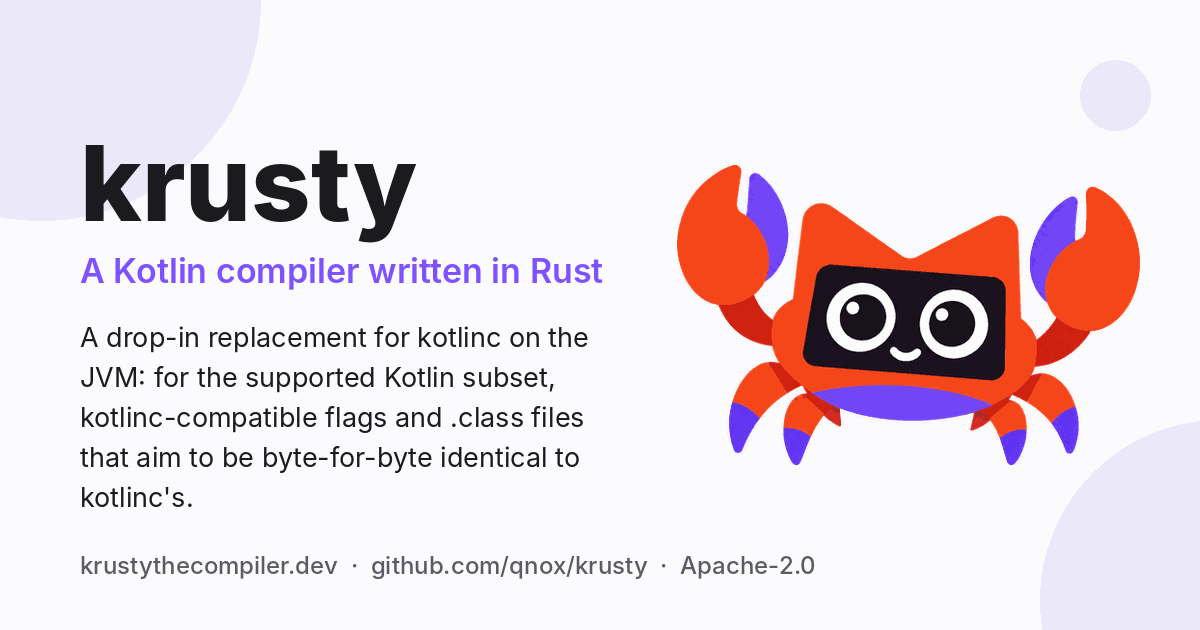
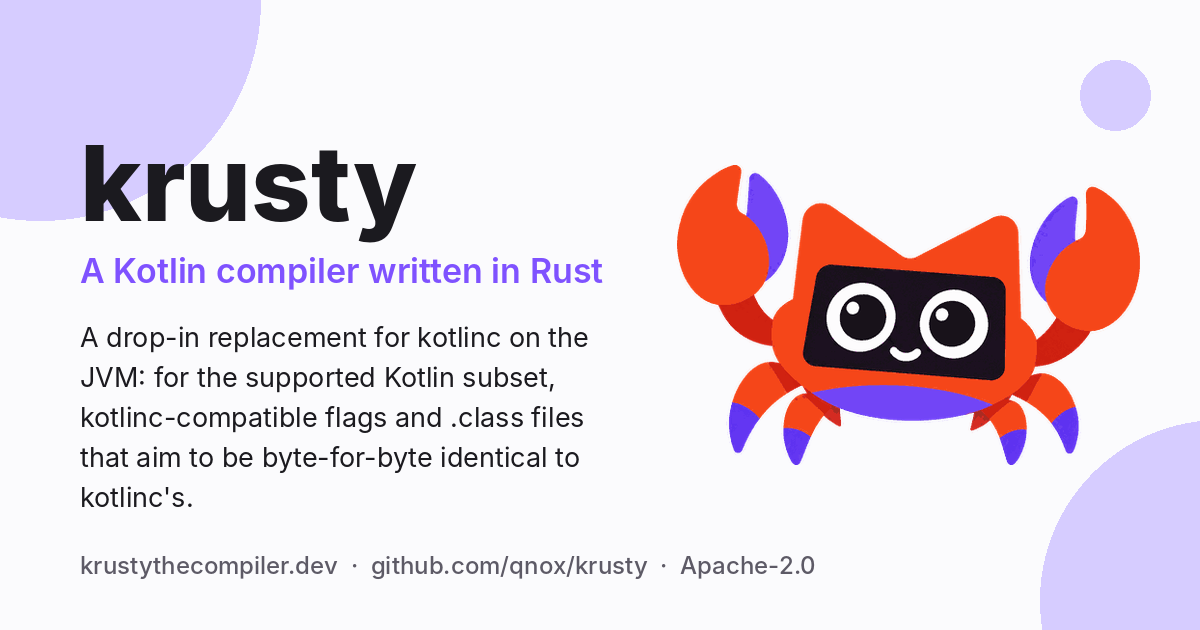
site: give the card background circles a visible lavender

Changed region(s): [[0.0, 0.0, 0.2158, 0.3619], [0.8633, 0.6635, 1.0, 1.0], [0.8942, 0.0905, 0.9558, 0.2111]]

diff --git a/site/scripts/render-card.py b/site/scripts/render-card.py
@@ -5,7 +5,7 @@ src/pages/index.astro point at. Needs Pillow and the Inter fonts
 from PIL import Image, ImageDraw, ImageFont
 
 W, H = 1200, 630
-BG, LAVENDER, FG, MUTED, ACCENT = (251, 251, 253), (235, 232, 250), (27, 26, 31), (93, 90, 102), (127, 82, 255)
+BG, LAVENDER, FG, MUTED, ACCENT = (251, 251, 253), (214, 204, 255), (27, 26, 31), (93, 90, 102), (127, 82, 255)
 FONTS = "/usr/share/fonts/opentype/inter/"
 TAGLINE = "A Kotlin compiler written in Rust"
 DESCRIPTION = (
